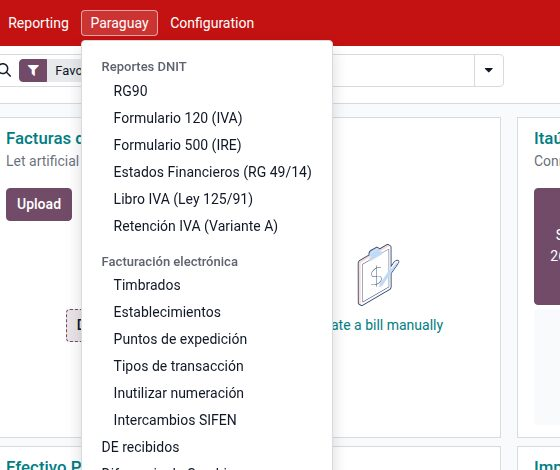
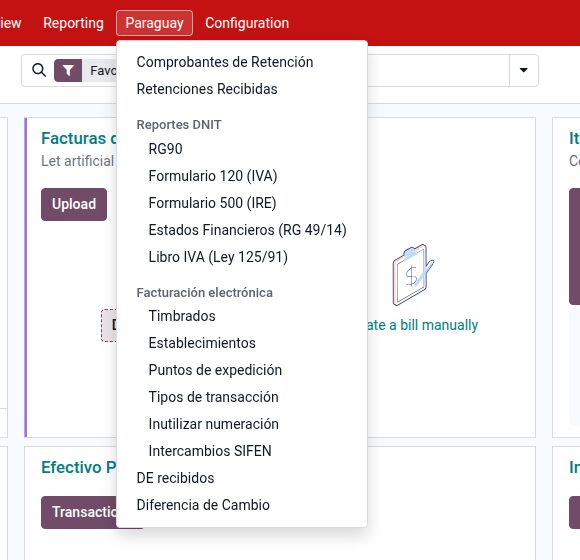
docs: NC/ND without origin block, cobranza PDF in chatter, partner statement
Match the latest UY/PY/common UI: DGI validates NC origin, retention menus
moved out of Reportes DNIT, and the contact statement is a common report.

diff --git a/docs/uruguay/uso.md b/docs/uruguay/uso.md
@@ -38,11 +38,12 @@ Botón **Enviar** (asistente nativo `account.move.send`). Usá una **plantilla d
 
 ## Nota de crédito y débito
 
-DGI exige vincular la NC/ND al comprobante original.
+DGI valida el vínculo en el XML (`Referencia` / `IndGlobal`). Creá la NC/ND
+desde la factura original (o cargá el origen a mano en borrador). Odoo **ya
+no corta la firma** si falta origen: si DGI observa, corregís y reenvías.
 
 1. Desde la factura: acción nativa **Nota de crédito** (o débito, si aplica).
-2. No armes una NC suelta “parecida”: el vínculo al origen se pierde y DGI la observa.
-3. Mismo diario / familia de tipo (NC de e-Factura vs NC de e-Ticket).
+2. Mismo diario / familia de tipo (NC de e-Factura vs NC de e-Ticket).
 
     ![Nota de crédito vinculada al comprobante original](img/odoo-nc.jpg)
 
@@ -85,7 +86,7 @@ Menú: `Contabilidad → Proveedores → Pagos electrónicos`.
 2. En **Aprobar** se ve el total y, factura por factura, el importe del comprobante. La suma de esa columna es el monto del pago.
 3. Si ya hay un pago confirmado del mismo importe imputado a esas facturas, **Aprobar** lo trae elegido en **Pago ya registrado**. El saldo en cero de esas facturas no es un error. **Conciliar con pago existente** solo vincula el CFE; no vuelve a avisar a Proinfo.
 4. Si no existe, **Crear pago interno** abre el registro de pago nativo (diario, método e imputación por factura con los mismos importes). Al confirmar queda publicado, imputado y vinculado al CFE. El comprobante del medio queda solo en el pago.
-5. **Factura** abre las facturas de proveedor y **Pago** abre el pago. Debajo del nombre del pago figura **Pago electrónico Nº** con serie, tipo y número. En la ficha del pago electrónico, la pestaña **PDF** es el recibo de Proinfo y la pestaña **XML** es el XML. El mismo recibo también queda en los adjuntos del pago.
+5. **Factura** abre las facturas de proveedor y **Pago** abre el pago. Debajo del nombre del pago figura **Pago electrónico Nº** con serie, tipo y número. El PDF del recibo queda como **adjunto principal en el chatter** de la línea (y se copia al pago interno). La pestaña **XML** muestra el XML. Ya no hay pestaña PDF.
 
 Si falta el PDF, el comprobante del medio, una factura citada, o el monto no coincide con el saldo, no se registra un pago nuevo.
 

diff --git a/docs/paraguay/cuentas.md b/docs/paraguay/cuentas.md
@@ -57,7 +57,7 @@ En impuestos de compañía PY: pestaña **Form 120 (PY)** (tags de casilla). El 
 
 El menú **Paraguay** agrupa reportes DNIT, masters SIFEN y DE recibidos:
 
-![Menú Paraguay: Reportes DNIT y SIFEN](img/odoo-menu-paraguay.jpg)
+![Menú Paraguay: retenciones, Reportes DNIT y SIFEN](img/odoo-menu-paraguay.jpg)
 
 ## Tipos DNIT (papel / RG90)
 
@@ -76,8 +76,8 @@ Exportación (Form 120): posición fiscal **Exportación** en el contacto o la f
 Si esa empresa usa el circuito:
 
 1. `Contabilidad → Configuración → Ajustes` → bloque *Paraguay — Retención IVA*.
-2. Activar Variante A, % default, flags de crédito / IRE.
-3. Mapear cuentas + diario (o sugerir desde códigos del plan).
+2. Activar Variante A, % default y flag imputa IRE (solo si esta empresa **emite**).
+3. Mapear diario, *IVA retenciones a pagar* y *Retención IVA crédito* (o **Sugerir desde códigos del plan**). No hay cuenta banco ni IVA débito en este bloque.
 
 Uso emisor: [Comprobante de retención IVA](compras.md#comprobante-de-retencion-iva) (botón en el pago de proveedor).  
 Uso receptor: [Retención IVA recibida](compras.md#retencion-iva-recibida) (botón en el cobro de cliente; cuenta crédito).

diff --git a/docs/paraguay/compras.md b/docs/paraguay/compras.md
@@ -44,7 +44,7 @@ Tipos DNIT activos de la compañía alimentan el combo (RG90).
 
 En la compañía (SIFEN → DE recibidos) puede estar el default **Crear factura al recibir XML**. Un rechazo DNIT posterior cancela el borrador o alerta si ya estaba publicado.
 
-Un XML con **iTiDE 8** (Comprobante de Retención Electrónico) **no** crea factura de proveedor: queda en estado **Retención pendiente**. El botón **Cargar retención recibida** de esa ficha todavía avisa que el parseo XML no está listo: hay que cargar el comprobante a mano (ver [Retención IVA recibida](#retencion-iva-recibida)).
+Un XML con **iTiDE 8** o **08** (Comprobante de Retención Electrónico) **no** crea factura de proveedor: queda en estado **Retención pendiente**. El botón **Cargar retención recibida** de esa ficha avisa que el parseo XML todavía no postea: hay que cargar el `CREC/` desde el cobro (ver [Retención IVA recibida](#retencion-iva-recibida)).
 
 Carga manual de XML sigue disponible aunque el IMAP esté apagado.
 

diff --git a/docs/comun/estado-cuenta.md b/docs/comun/estado-cuenta.md
@@ -1,0 +1,23 @@
+# Estado de cuenta del contacto
+
+Módulo `account_partner_statement`. Cuenta corriente del contacto en la
+**moneda de cada comprobante** (no convierte todo a la moneda de la compañía).
+
+---
+
+## Dónde
+
+- `Contabilidad → Informes → Partner Reports → Estado de Cuenta del Contacto`
+- En el contacto: botón **Estado de cuenta**
+
+1. Contacto (siempre el comercial). **Cliente** o **Proveedor**.
+2. Compañía (si hay varias). Rango de fechas, o **Año en curso** / **Todos los movimientos**.
+3. Opcional: **Incluir facturas de canje** (el otro lado).
+4. **Actualizar.** **PDF**, **Excel** o **Enviar por mail**.
+
+Una columna **Concepto** (el nombre abre la factura o el pago). Saldos por
+moneda, con total al pie de cada bloque.
+
+![Estado de cuenta: filtros, PDF y Excel](img/odoo-estado-cuenta.jpg)
+
+El mail usa la plantilla del módulo. Se tapó compañía y datos del contacto.

diff --git a/docs/paraguay/tipo-cambio.md b/docs/paraguay/tipo-cambio.md
@@ -29,11 +29,12 @@ En cada tasa aparecen **TC Vendedor** y **TC Comprador**.
 
 Si la factura no está en PYG:
 
-- **Tipo de TC:** comprador, vendedor o **manual**.
-- El importe del TC se edita solo en modo manual y en borrador.
-- Si DNIT no publicó esa fecha: aviso + enlace al portal.
+- Encima del diario: **1 USD = … PYG** (el importe del TC).
+- **Tipo de TC:** comprador, vendedor o **manual**. El importe se edita solo en manual y en borrador.
+- Si DNIT no publicó esa fecha: aviso + **Ver cotizaciones DNIT**.
 
-Ventas usan vendedor; compras, comprador — salvo que elijas manual.
+Ventas usan vendedor; compras, comprador — salvo que elijas manual. La retención
+emitida convierte el asiento con **tasa vendedor** (Art. 19 inc. d Decreto 6806/05).
 
 ![Factura PY: tipo de TC y cotización DNIT](img/odoo-factura-tc.jpg)
 

diff --git a/docs/paraguay/reportes.md b/docs/paraguay/reportes.md
@@ -13,7 +13,7 @@ Ya no son wizards. No mezclan saldos entre empresas.
 - Libro IVA (Ley 125/91)
 - (la retención IVA ya no es un reporte: se emite desde el pago o se carga desde el cobro)
 
-![Menú Paraguay: Reportes DNIT](img/odoo-menu-paraguay.jpg)
+![Menú Paraguay: retenciones y Reportes DNIT](img/odoo-menu-paraguay.jpg)
 
 Estados comunes (salvo RG90): Borrador → Calculado → Aprobado.
 **Calcular** solo en borrador. **Volver a Borrador** solo desde Calculado

diff --git a/docs/comun/index.md b/docs/comun/index.md
@@ -28,6 +28,12 @@ Módulos que no son CFE ni SIFEN. Sirven en cualquier compañía (Uruguay, Parag
 
     Imputación manual y anticipos desde el pedido.
 
+-   **[Estado de cuenta](estado-cuenta.md)**
+
+    ---
+
+    Cuenta corriente del contacto por moneda, PDF y Excel.
+
 -   **[Segunda moneda](multimoneda.md)**
 
     ---

diff --git a/docs/index.md b/docs/index.md
@@ -26,7 +26,7 @@ Odoo 19 Enterprise. Textos genéricos: compañía demo, placeholders, sin datos 
 
     ---
 
-    Analítica, captcha, pagos, segunda moneda y color de barra.
+    Analítica, captcha, pagos, estado de cuenta, segunda moneda y color de barra.
 
     [Abrir común](comun/index.md)
 

diff --git a/docs/uruguay/index.md b/docs/uruguay/index.md
@@ -20,7 +20,7 @@ Localización fiscal Uruguay sobre Odoo 19: **CFE** ante DGI, impuestos, diarios
 
     ---
 
-    Emitir, imprimir, enviar, e-Remito 181 y e-Resguardo 182.
+    Emitir, imprimir, e-Remito 181, e-Resguardo 182 y pagos electrónicos.
 
 -   **[Conciliación DGI](conciliacion.md)**
 

diff --git a/docs/paraguay/index.md b/docs/paraguay/index.md
@@ -32,7 +32,7 @@ Localización fiscal Paraguay sobre Odoo 19: **SIFEN** (DNIT), plan de cuentas, 
 
     ---
 
-    RG90, Form 120, Form 500, EEFF, Libro IVA y retención.
+    RG90, Form 120, Form 500, EEFF y Libro IVA.
 
 -   **[Tipo de cambio](tipo-cambio.md)**
 
